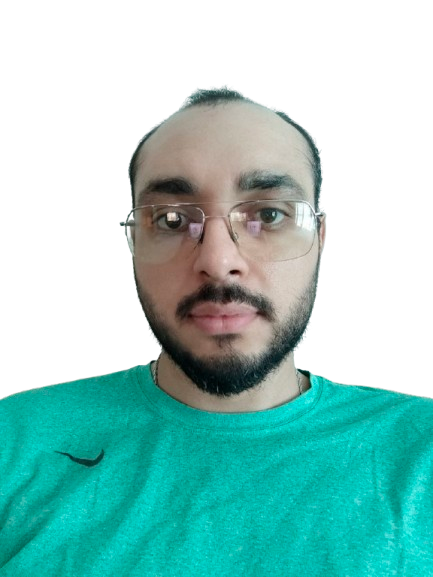
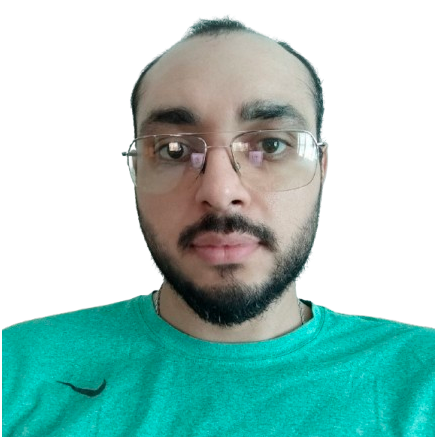
adição do n8n em habilidades, alteração da foto-perfil

diff --git a/index.html b/index.html
@@ -67,7 +67,7 @@
 
           <div class="img-home">
             <div class="img-box inner-shadow">
-              <img class="outer-shadow" src="src/imagens/foto-perfil.png" alt="foto do perfil do Ricardo" />
+              <img class="outer-shadow" src="src/imagens/foto-perfil.png" alt="foto do perfil do Pablo" />
             </div>
           </div>
         </div>
@@ -156,6 +156,14 @@
           </div>
           <h3>Git</h3>
         </div>
+
+        <div class="informacoes n8n">
+          <div class="logo">
+            <img class="n8n" src="src/imagens/n8n.svg" alt="logo n8n" height="80px" />
+          </div>
+          <h3>n8n</h3>
+        </div>
+
 
         <div class="informacoes java">
           <div class="logo">

diff --git a/src/css/secoes/habilidades.css b/src/css/secoes/habilidades.css
@@ -42,3 +42,13 @@
 .habilidades .container-habilidades .informacoes .logo i {
     font-size: 8rem;
 }
+
+.logo .n8n{
+    background-color: var(--cor-branca);
+    border-radius: 5px;
+    padding: 3px;
+}
+
+.logo .n8n:hover{
+    background-color: var(--cor-primaria);
+}

diff --git a/src/css/secoes/header.css b/src/css/secoes/header.css
@@ -14,7 +14,7 @@
     border-radius: 50%;
     width: 75px;
     height: 75px;
-    line-height: 65px;
+    line-height: 69px;
     text-align: center;
     text-decoration: underline;
     transition: 0.2s;
